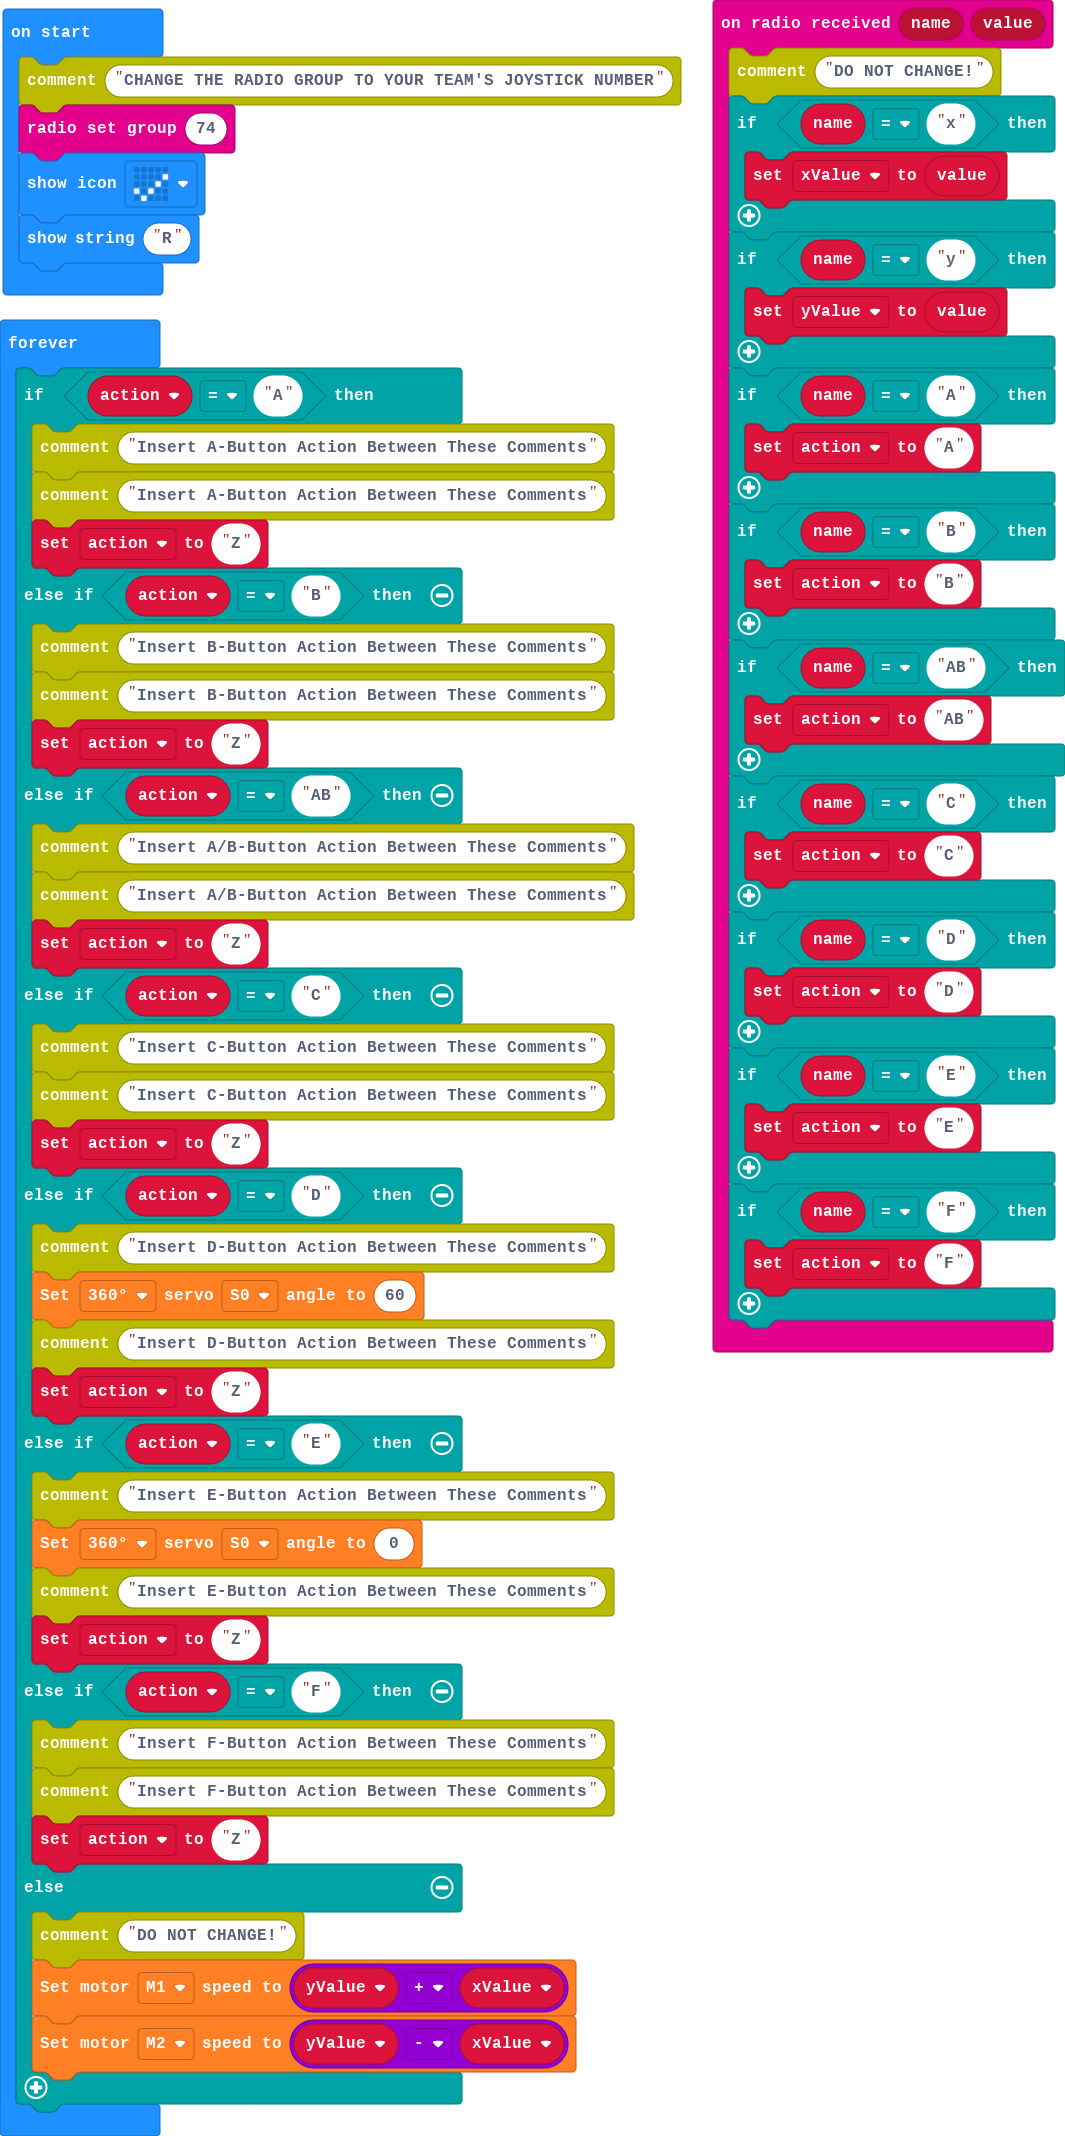
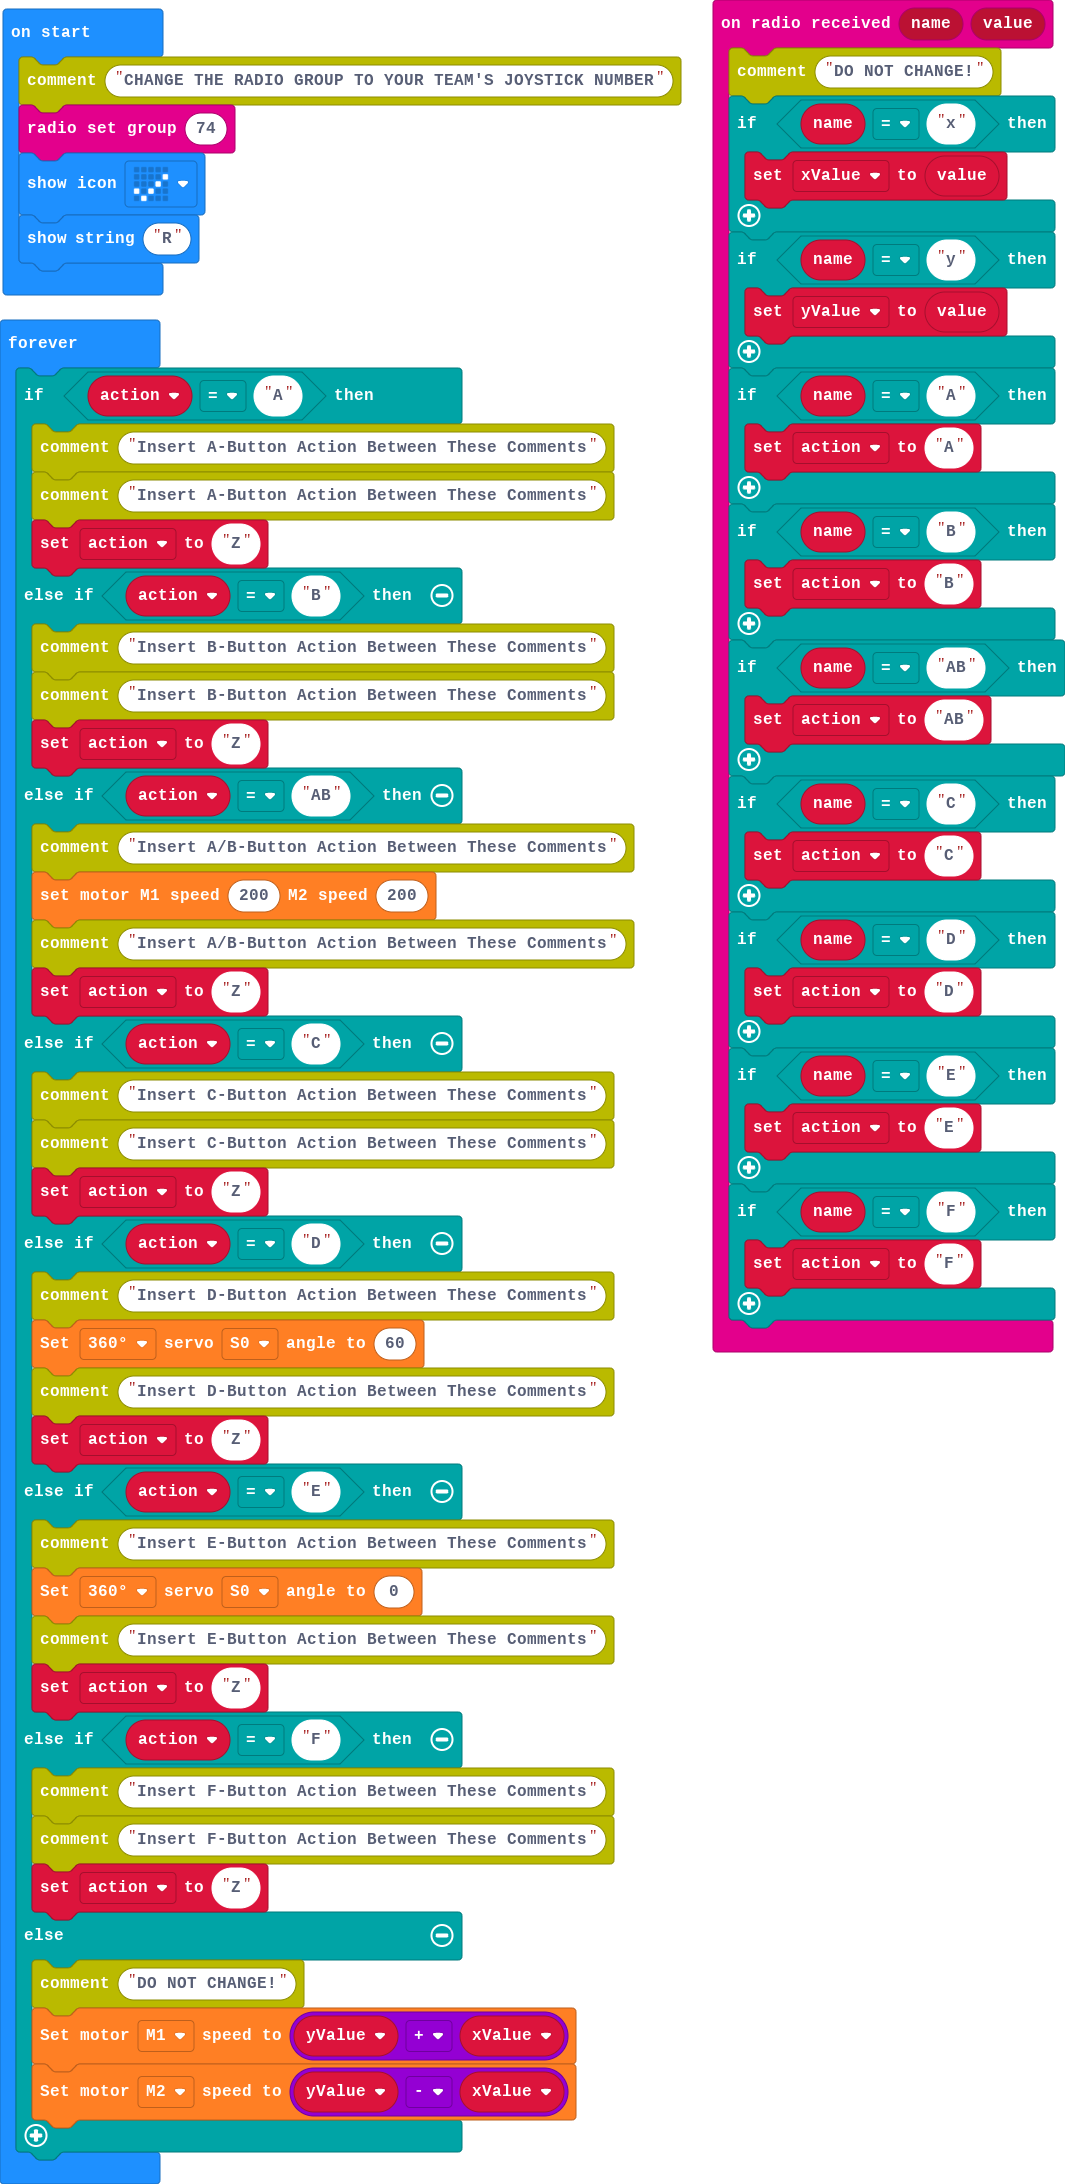
Update main.blocks, main.ts

diff --git a/main.ts b/main.ts
@@ -46,6 +46,7 @@ basic.forever(function () {
         action = "Z"
     } else if (action == "AB") {
         comment.comment("Insert A/B-Button Action Between These Comments")
+        wuKong.setAllMotor(200, 200)
         comment.comment("Insert A/B-Button Action Between These Comments")
         action = "Z"
     } else if (action == "C") {
